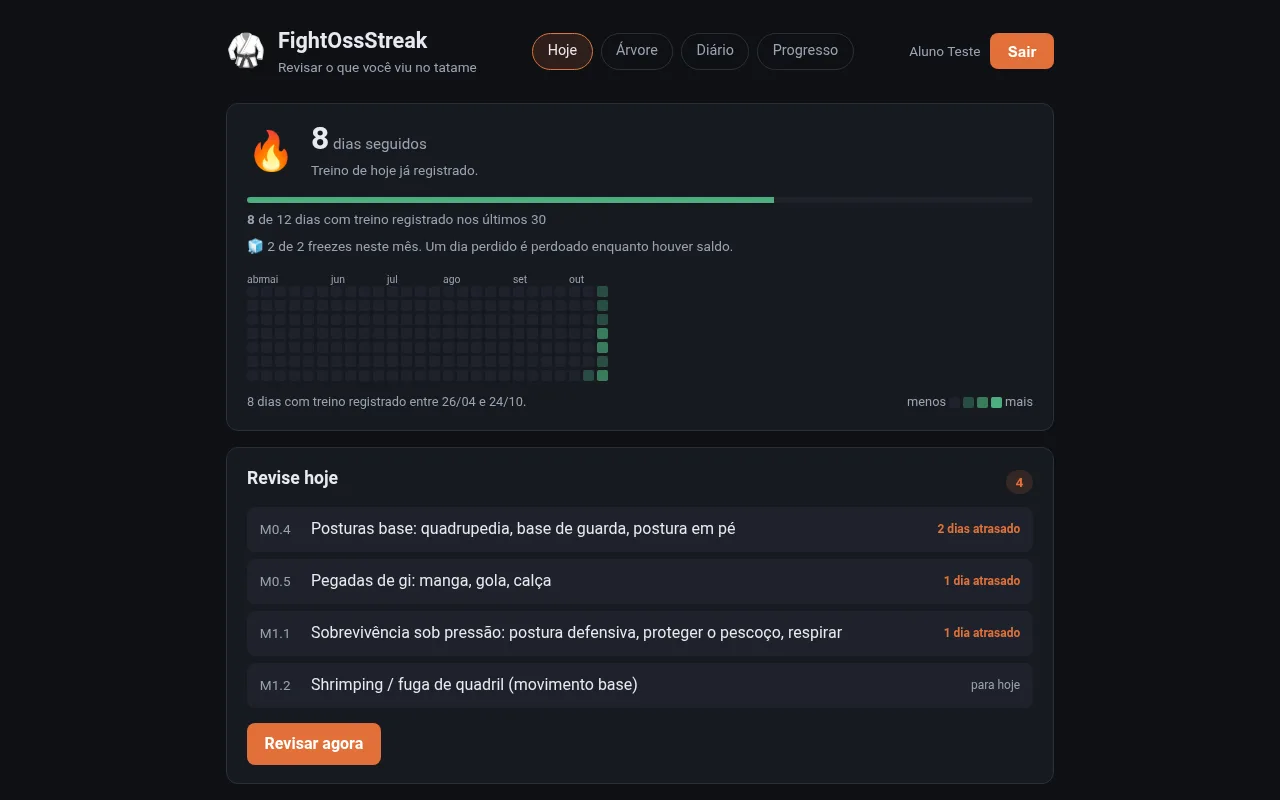
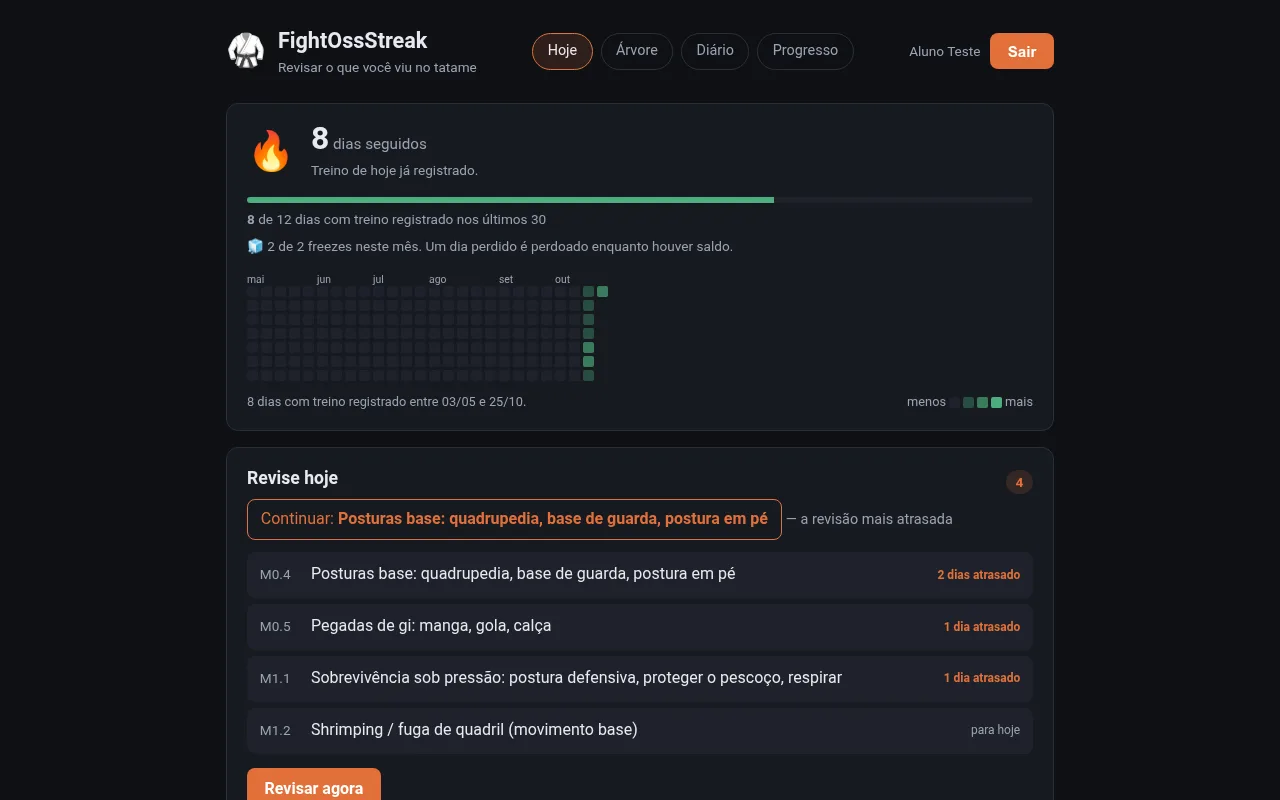
docs: recapturar os prints da tela inicial da onda 3
O atalho Continuar (#104) mudou o cartão Revise hoje em /hoje.

Refs #104

diff --git a/docs/desenvolvimento/prints-historico.md b/docs/desenvolvimento/prints-historico.md
@@ -96,3 +96,12 @@ Registro do que cada recaptura mudou e por quê. O procedimento está em
 > stack subiu como projeto separado (`docker compose -p fosprints`), com volume próprio descartado
 > depois. Sessão por `seed-dev-users.mjs` + `mint-dev-login.mjs`, confirmada com a senha — o
 > caminho de `prints-da-landing.md`; o portão nunca foi desligado.
+
+> **A onda 3 (#104, #106) mexeu só em `/hoje`, e por isso recapturou dois arquivos.** O atalho
+> *Continuar* (#104) entrou no topo do cartão "Revise hoje" e aparece em `hoje-desktop` e
+> `hoje-mobile`. Com a agenda semeada, ele aponta para a revisão mais atrasada (M0.4), o primeiro
+> da própria lista. A imagem do marco (#106) não aparece, pelo motivo que já valia para a #101: a
+> semeadura termina em 8 dias seguidos, fora da lista de marcos. `no-*`, `drill-*` e `diario-*`
+> saíram com bytes diferentes e foram **restaurados**, pela régua da #99. O `og.jpg` saiu idêntico.
+> A captura repetiu o caminho da onda 2: stack em projeto separado (`docker compose -p fosprints`),
+> com volume descartado depois, e sessão por `seed-dev-users.mjs` + `mint-dev-login.mjs`.
